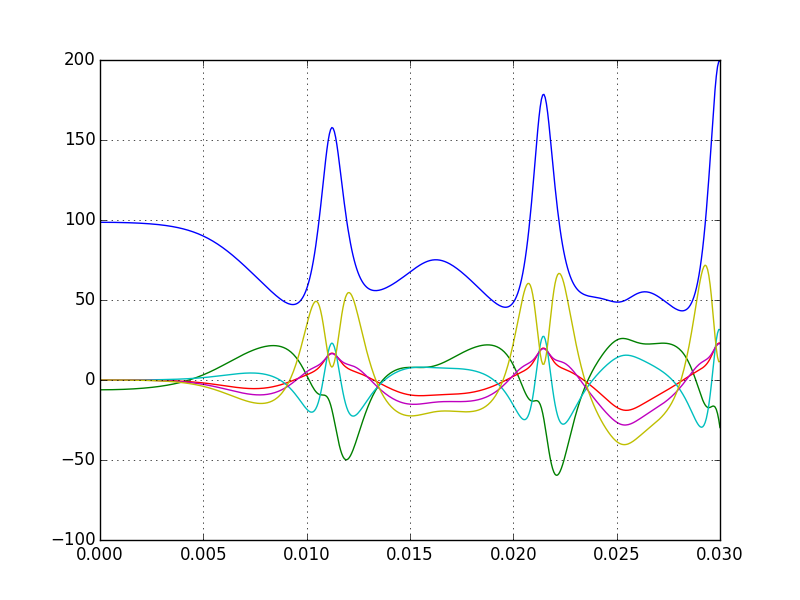
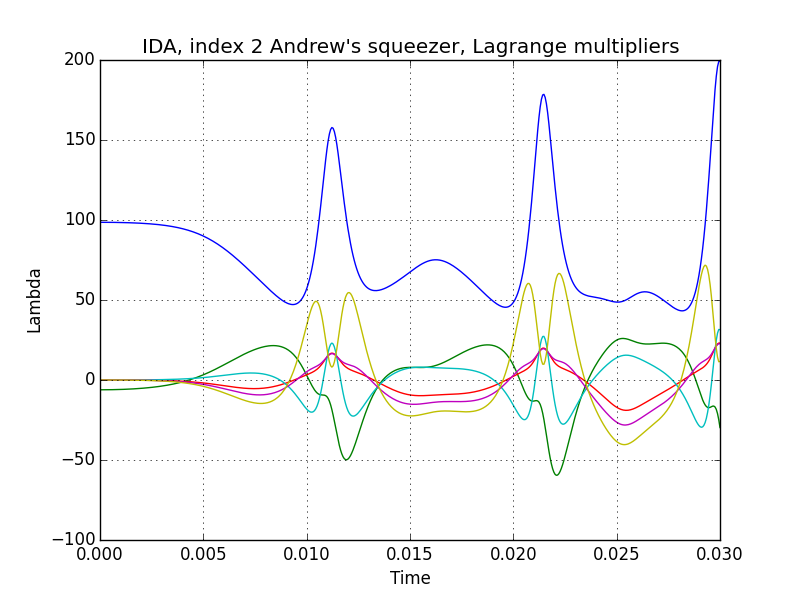
runtime stats

Changed region(s): [[0.1875, 0.06, 0.8438, 0.09], [0.0312, 0.45, 0.0625, 0.57], [0.5, 0.96, 0.5312, 0.99]]

diff --git a/DAEtest.py b/DAEtest.py
@@ -22,19 +22,8 @@ def run_example():
         #return squeezer(t, y, yd)
         return squeezer2(t, y, yd)
         #return squeezer1(t, y, yd)
-
-        #res_0 = yd[0]-y[2]
-        #res_1 = yd[1]-y[3]
-        #res_2 = yd[2]+y[4]*y[0]
-        #res_3 = yd[3]+y[4]*y[1]+9.82
-        #res_4 = y[2]**2+y[3]**2-y[4]*(y[0]**2+y[1]**2)-y[1]*9.82
-
-        #return np.array([res_0,res_1,res_2,res_3,res_4])
     
     #The initial conditons
-    #t0  = 0.0 #Initial time
-    #y0  = [1.0, 0.0, 0.0, 0.0, 0.0] #Initial conditions
-    #yd0 = [0.0, 0.0, 0.0, -9.82, 0.0] #Initial conditions
     t0 = 0
     y0, yd0 = init_squeezer()
 
@@ -52,16 +41,16 @@ def run_example():
     tfinal = 0.03        #Specify the final time
     ncp = 500            #Number of communcation points (number of return points)
 
-    print(y0, yd0)
     t,y,yd = sim.simulate(tfinal, ncp) #Use the .simulate method to simulate and provide the final time and ncp (optional)
     #for i in range(7):
         #y[:, i] = [(j % 123123123123*np.pi) - 0*np.pi for j in y[:, i]]
     #sim.plot()
     fig, ax = P.subplots()
-    P.title('IDA, index 2 Andrew\'s squeezer')
+    P.title('IDA, index 3 Andrew\'s squeezer, Lagrange multipliers')
     P.xlabel('Time')
-    P.ylabel('Angle')
-    P.axis([0, tfinal + 0.01, -0.7, 0.7])
+    P.ylabel('Lambda')
+    #P.axis([0, tfinal + 0.01, -0.7, 0.7])
+    '''
     P.plot(t, y[:, 0], label='beta')
     P.plot(t, y[:, 1], label='theta')
     P.plot(t, y[:, 2], label='gamma')
@@ -69,6 +58,7 @@ def run_example():
     P.plot(t, y[:, 4], label='delta')
     P.plot(t, y[:, 5], label='omega')
     #P.plot(t, y[:, 6], label='epsilon')
+    '''
     legend = ax.legend(shadow=True)
 
     #plt.plot(t, y[:, 0])
@@ -78,13 +68,14 @@ def run_example():
     #plt.plot(t, y[:, 4])
     #plt.plot(t, y[:, 5])
     #plt.plot(t, y[:, 6])
-    #plt.plot(t, y[:, 14])
-    #plt.plot(t, y[:, 15])
-    #plt.plot(t, y[:, 16])
-    #plt.plot(t, y[:, 17])
-    #plt.plot(t, y[:, 18])
-    #plt.plot(t, y[:, 19])
+    P.plot(t, y[:, 14])
+    P.plot(t, y[:, 15])
+    P.plot(t, y[:, 16])
+    P.plot(t, y[:, 17])
+    P.plot(t, y[:, 18])
+    P.plot(t, y[:, 19])
     #plt.axis([0, tfinal, -0.7, 0.7])
+    P.axis([0, tfinal, -100, 200])
     P.grid()
     P.show()
 
